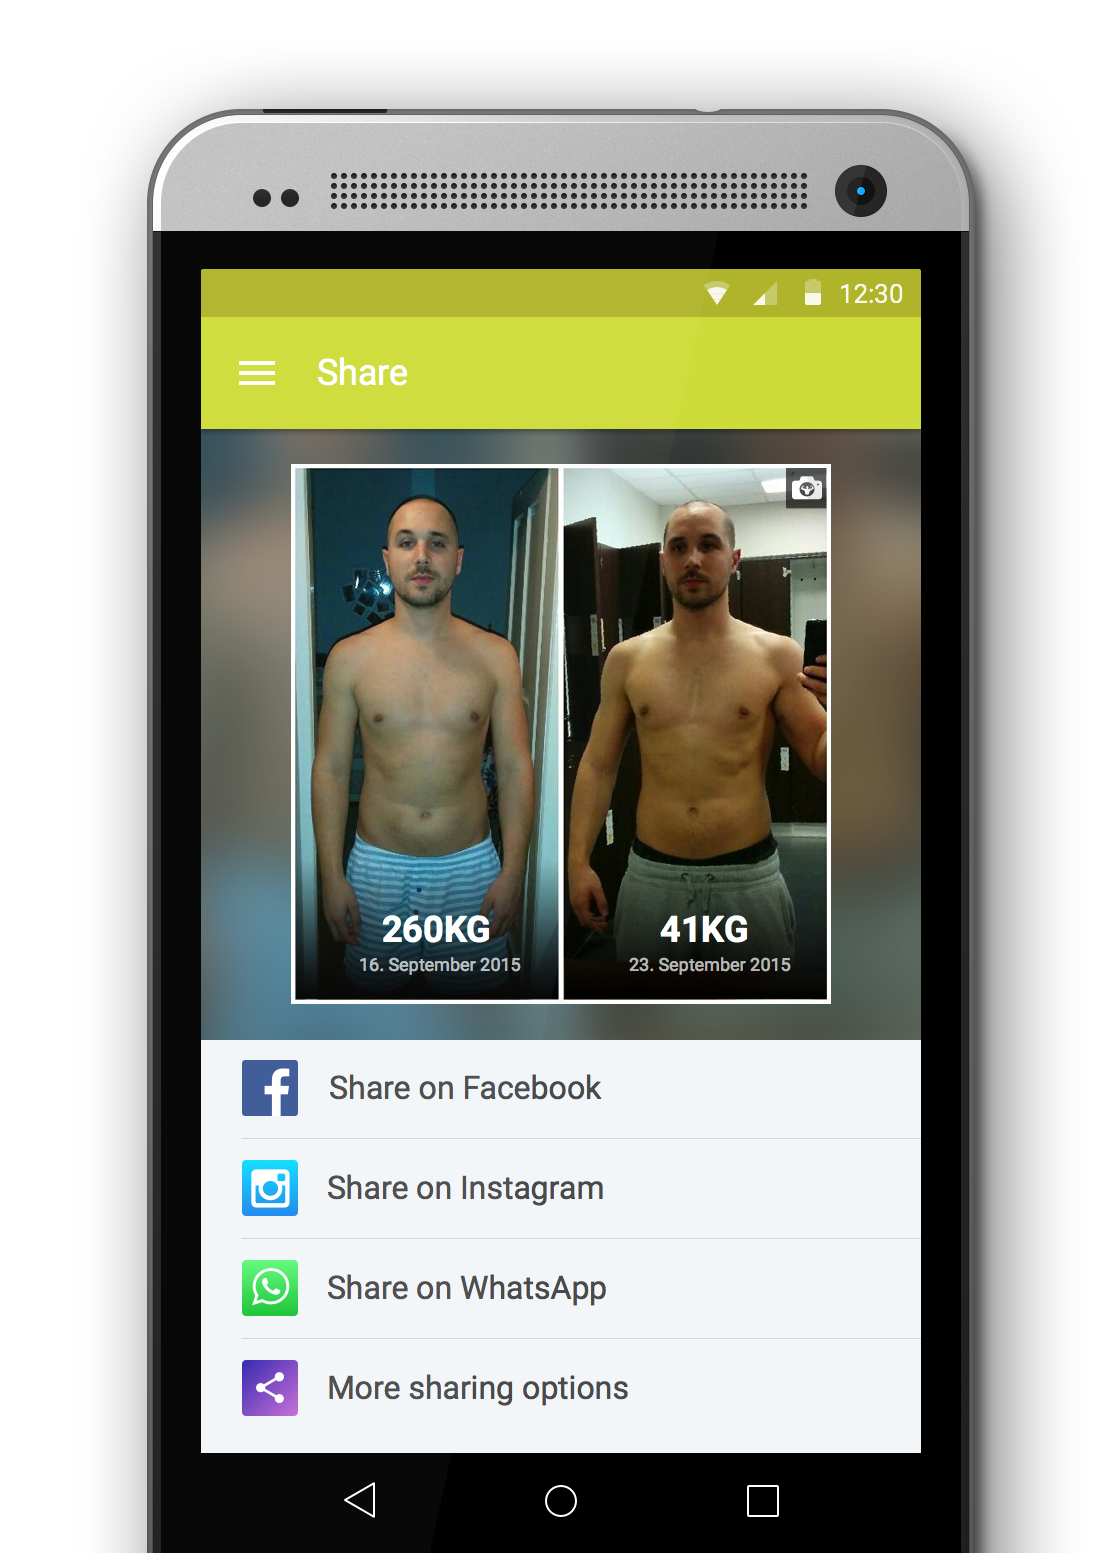
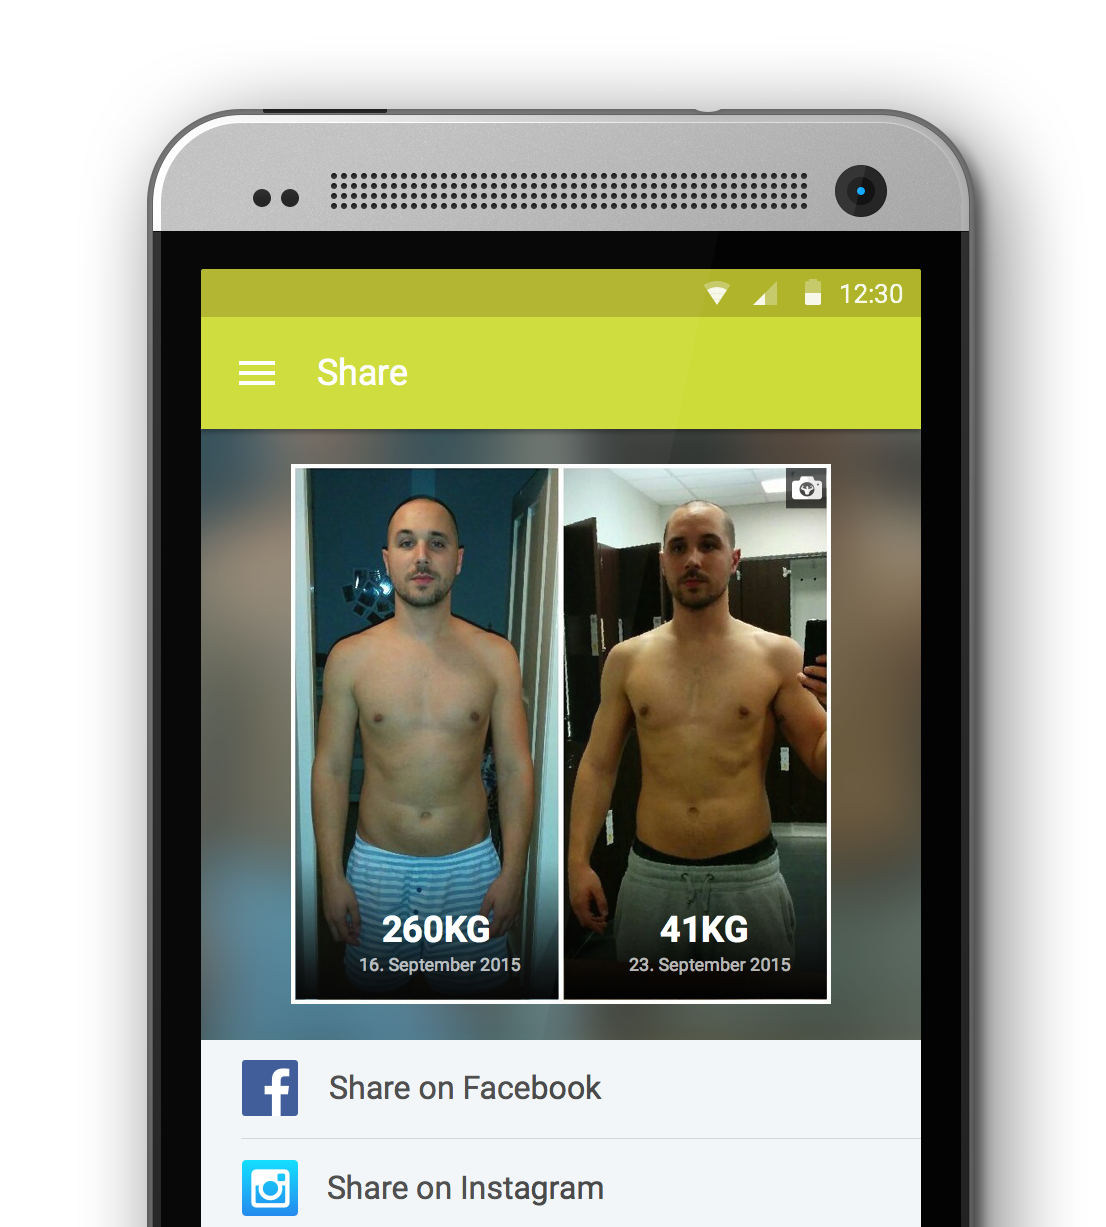
Added media queries for device with screenshot

diff --git a/assets/style-custom.css b/assets/style-custom.css
@@ -10,3 +10,23 @@ h2 {
 h3 {
 	font-size: 32px;
 }
+
+.app-subheadline {
+	margin-top: 0;
+	margin-bottom: 12px;
+}
+
+.content-left-appdevice-small {
+	display: none;
+}
+
+/* 1st query: display small device with screenshot on desktop when the browser window is wide and low */
+/* 2nd query: display small device with screenshot on large phones, on small phones the screenshot is hidden*/
+@media only screen and (min-width: 1000px) and (max-height: 850px) , only screen and (max-width: 449px) and (min-height: 620px){
+	.content-left-appdevice-big {
+    	display: none;
+	}
+	.content-left-appdevice-small {
+    	display: inherit;
+	}
+}

diff --git a/index.html b/index.html
@@ -37,7 +37,9 @@
 
         </div>
 
-        <img class="content-left-appdevice" src="assets/img/content-left-hand.png" alt="Instashape tracks your workout or diet progress" />
+        <img class="content-left-appdevice content-left-appdevice-big" src="assets/img/content-left-hand.png" alt="Instashape tracks your workout or diet progress" />
+
+        <img class="content-left-appdevice content-left-appdevice-small" src="assets/img/content-left-hand-small.png" alt="Instashape tracks your workout or diet progress" />
     </div>
     <div class="content-right">
         <div class="content-feature">
